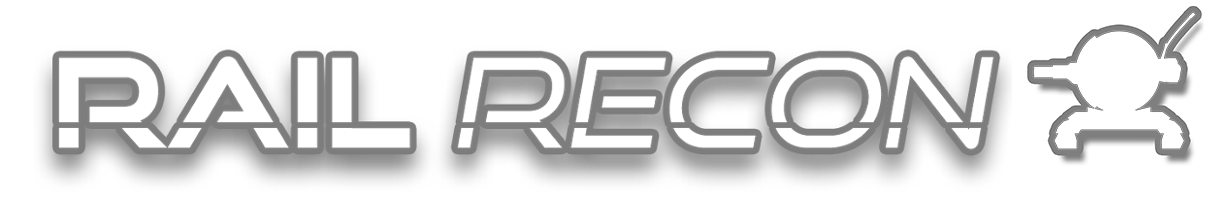
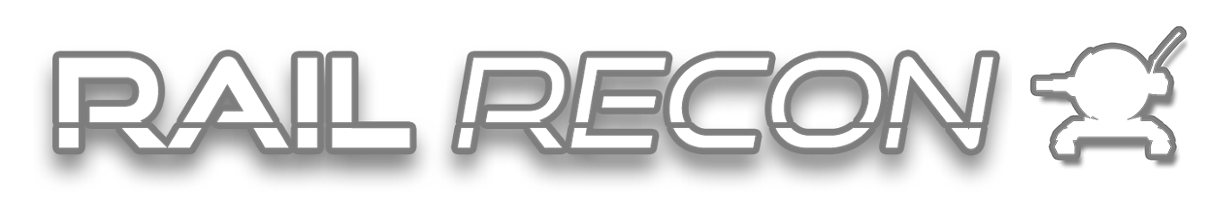
social media added & footer update & nav update

Changed region(s): [[0.8362, 0.0299, 0.991, 0.8358]]

diff --git a/_layouts/default.html b/_layouts/default.html
@@ -9,33 +9,28 @@
     <meta name="theme-color" content="#157878">
     <link href='https://fonts.googleapis.com/css?family=Open+Sans:400,700' rel='stylesheet' type='text/css'>
     <link rel="stylesheet" href="{{ '/assets/css/style.css?v=' | append: site.github.build_revision | relative_url }}">
+    <script async src="https://platform.twitter.com/widgets.js" charset="utf-8"></script>
   </head>
   <body>
     <section class="page-header">
 
       <div class="sub-page-header">
-        <h1 class="project-name">rail-recon.com</h1>
-      <!--<h1 class="project-name">{{ site.title | default: site.github.repository_name }}</h1>
-      <h2 class="project-tagline">{{ site.description | default: site.github.project_tagline }}</h2>-->
-      {% if site.github.is_project_page %}
-        <!--<a href="{{ site.github.repository_url }}" class="btn">View on GitHub</a>-->
-      {% endif %}
-      {% if site.show_downloads %}
-        <!--<a href="{{ site.github.zip_url }}" class="btn">Download .zip</a>-->
-        <!--<a href="{{ site.github.tar_url }}" class="btn">Download .tar.gz</a>-->
-      {% endif %}
+      <div class="total-width">
+        <h1 class="project-name"><a href="#">rail-recon.com</a></h1>
+        <div class="social-button">
+          <a href="https://twitter.com/RailReconGame?ref_src=twsrc%5Etfw" class="twitter-follow-button" data-show-count="false">Follow @RailReconGame</a>
+        </div>
+        <div class="social-button">
+          <iframe src="https://www.facebook.com/plugins/follow.php?href=https%3A%2F%2Fwww.facebook.com%2FRailReconGame%2F&width=270&height=20&layout=standard&size=small&show_faces=true&appId&colorscheme=dark" width="270" height="20" style="border:none;" scrolling="no" frameborder="0" allowTransparency="true"></iframe>
+
+
+        </div>
+      </div>
     </div>
     </section>
 
     <section class="main-content">
         {{ content }}
-
-        <footer class="site-footer">
-          {% if site.github.is_project_page %}
-            <span class="site-footer-owner"><a href="{{ site.github.repository_url }}">{{ site.github.repository_name }}</a> is maintained by <a href="{{ site.github.owner_url }}">{{ site.github.owner_name }}</a>.</span>
-          {% endif %}
-          <span class="site-footer-credits">This page was generated by <a href="https://pages.github.com">GitHub Pages</a>.</span>
-        </footer>
     </section>
 
     {% if site.google_analytics %}

diff --git a/_sass/railrecon.scss b/_sass/railrecon.scss
@@ -31,12 +31,13 @@
 }
 
 #banner{
-	width: 76rem;
+	width: 100%;
 	height: 12.45rem;
 	//width: 1227px;
 	//height: 201px;
 	@extend .section-single-background;
 	background-image: url('/assets/image/railrecon_banner.png');
+  background-size: contain;
 }
 
 body{
@@ -54,6 +55,7 @@ body{
 	}
 	.b2{
 	background-image: url('/assets/image/background_s.5.jpg');
+	text-align: right;
 	}
 	.b3{
 	background-image: url('/assets/image/back_02.jpg');
@@ -61,7 +63,18 @@ body{
 	}
 	.b4{
 	background-image: url('/assets/image/background_s.5.jpg');
+		text-align: right;
 	}
+	.b5{
+	}
+	h2{
+	  font-size: 2.7rem;
+	}
+}
+
+
+.total-width{
+	width:100%;
 }
 
 .width-section{
@@ -75,12 +88,31 @@ body{
 		text-shadow: 0px 0px 8px rgba(0, 0, 0, 0.85);
 }
 
+.site-footer{
+    max-width: 76rem;
+		min-height: 20rem;
+    padding: 2rem 6rem;
+    margin: 0 auto;
+}
+
 .sub-page-header{
+    min-height: 30px;
     max-width: 76rem;
     margin: 0 auto;
 		text-shadow: 0px 0px 8px rgba(0, 0, 0, 0.85);
+		overflow: auto;
 		h1{
 	    font-size: 1.5rem;
+			float: left;
+			display: block;
+		}
+		.social-button{
+			float: right;
+			position: relative;
+			top: 0px;
+			right: 0px;
+			display: block;
+			margin: 0px 5px;
 		}
 }
 
@@ -88,30 +120,48 @@ body{
 	padding: 0 0 0 0;
 }
 
+.nav-footer{
+	width:100%;
+	ul {
+	    list-style-type: none;
+	    margin: 0;
+	    padding: 0;
+	    overflow: hidden;
+	    //background-color: #333;
+	}
+	li {
+	    float: left;
+				width: 16.66%;
+			a {
+				text-align: center;
+	    	color: #bbb;
+			}
+			a:hover {
+				color: #ddd;
+			}
+	}
+}
+
 .topnav {
-	padding: 2rem 6rem;
-}
-
-.topnav ul {
-    list-style-type: none;
-    margin: 0;
-    padding: 0;
-    overflow: hidden;
-    background-color: #333;
-}
-
-.topnav li {
-    float: left;
-}
-
-.topnav li a {
-    display: block;
-    color: white;
-    text-align: center;
-    padding: 14px 16px;
-    text-decoration: none;
-}
-
-.topnav li a:hover {
-    background-color: #111;
+	padding: 3rem 0rem 1rem 0rem;
+	ul {
+	    list-style-type: none;
+	    margin: 0;
+	    padding: 0;
+	    overflow: hidden;
+	    background-color: #333;
+	}
+	li {
+	    float: left;
+	}
+	li a {
+	    display: block;
+	    color: white;
+	    text-align: center;
+	    padding: 14px 16px;
+	    text-decoration: none;
+	}
+	li a:hover {
+	    background-color: #111;
+	}
 }

diff --git a/_includes/site_nav.html b/_includes/site_nav.html
@@ -1,0 +1,10 @@
+<div class="nav-footer">
+  <ul>
+  <li><a href="#">Rail Recon</a></li>
+  <li><a href="#features">Features</a></li>
+  <li><a href="#download">Download</a></li>
+  <li><a href="#team">Team</a></li>
+  <li><a href="#contact">Contact</a></li>
+  <li><a href="#social-media">Social media</a></li>
+  </ul>
+</div>

diff --git a/_sass/variables.scss b/_sass/variables.scss
@@ -25,4 +25,4 @@ $code-text-color: #567482 !default;
 // Borders
 $border-color: #dce6f0 !default;
 $table-border-color: #e9ebec !default;
-$hr-border-color: #eff0f1 !default;
+$hr-border-color: #555 !default;

diff --git a/_sass/jekyll-theme-cayman.scss b/_sass/jekyll-theme-cayman.scss
@@ -43,6 +43,12 @@ a {
   }
 }
 
+.project-name a{
+  margin-top: 2rem;
+  margin-bottom: 1rem;
+  color: $section-headings-color;
+}
+
 .btn {
   display: inline-block;
   margin-bottom: 1rem;

diff --git a/index.md b/index.md
@@ -1,12 +1,17 @@
 ---
 layout: default
 ---
-
+{% comment %}
+https://developers.facebook.com/docs/plugins/page-plugin/
+{% endcomment %}
 <div class="width-section b0">
 <div class="sub-main-content" id="top-section" >
+
+<div class="total-width">
 <div class="video-container">
 	<iframe src="https://www.youtube.com/embed/NpEaa2P7qZI?rel=0" frameborder="0" allowfullscreen>
 	</iframe>
+</div>
 </div>
 
 <!-- title
@@ -16,41 +21,52 @@ layout: default
 <div id="banner"></div>
 
 <nav class="topnav">
-<ul>
-<li><a href="#">Rail Recon</a></li>
-<li><a href="#features">Features</a></li>
-<li><a href="#download">Download</a></li>
-<li><a href="#team">Team</a></li>
-<li><a href="#contact">Contact</a></li>
-</ul>
+{% include site_nav.html %}
 </nav>
 </div>
 </div>
 
 <div class="width-section b1">
 <div class="sub-main-content">
-<div id="features"><h1>Features</h1></div>
+<div id="features"><h2>Features</h2></div>
 This is a normal paragraph following a header. GitHub is a code hosting platform for version control and collaboration. It lets you and others work together on projects from anywhere.
 </div>
 </div>
 
 <div class="width-section b2">
 <div class="sub-main-content">
-	<div id="download"><h1>Download</h1></div>
+	<div id="download"><h2>Download</h2></div>
 	This is a normal paragraph following a header. GitHub is a code hosting platform for version control and collaboration. It lets you and others work together on projects from anywhere.
 </div>
 </div>
 
 <div class="width-section b3">
 <div class="sub-main-content">
-	<div id="team"><h1>Team</h1></div>
+	<div id="team"><h2>Team</h2></div>
 	This is a normal paragraph following a header. GitHub is a code hosting platform for version control and collaboration. It lets you and others work together on projects from anywhere.
 </div>
 </div>
 
 <div class="width-section b4">
 <div class="sub-main-content">
-	<div id="contact"><h1>Contact</h1></div>
+	<div id="contact"><h2>Contact</h2></div>
 	This is a normal paragraph following a header. GitHub is a code hosting platform for version control and collaboration. It lets you and others work together on projects from anywhere.
 </div>
 </div>
+
+<div class="width-section b5">
+<div class="sub-main-content">
+	<div id="social-media"><h2>Social media</h2></div>
+
+	<a class="twitter-timeline" data-height="750" data-width="500" data-theme="light" href="https://twitter.com/RailReconGame?ref_src=twsrc%5Etfw">Tweets by RailReconGame</a>
+
+	<iframe src="https://www.facebook.com/plugins/page.php?href=https%3A%2F%2Fwww.facebook.com%2FRailReconGame%2F&tabs=timeline&width=500&height=750&small_header=false&adapt_container_width=true&hide_cover=false&show_facepile=true&appId" width="500" height="750" style="border:none;overflow:hidden" scrolling="no" frameborder="0" allowTransparency="true"></iframe>
+
+</div>
+</div>
+
+<footer class="site-footer">
+<div class="nav-footer">
+	{% include site_nav.html %}
+</div>
+</footer>
